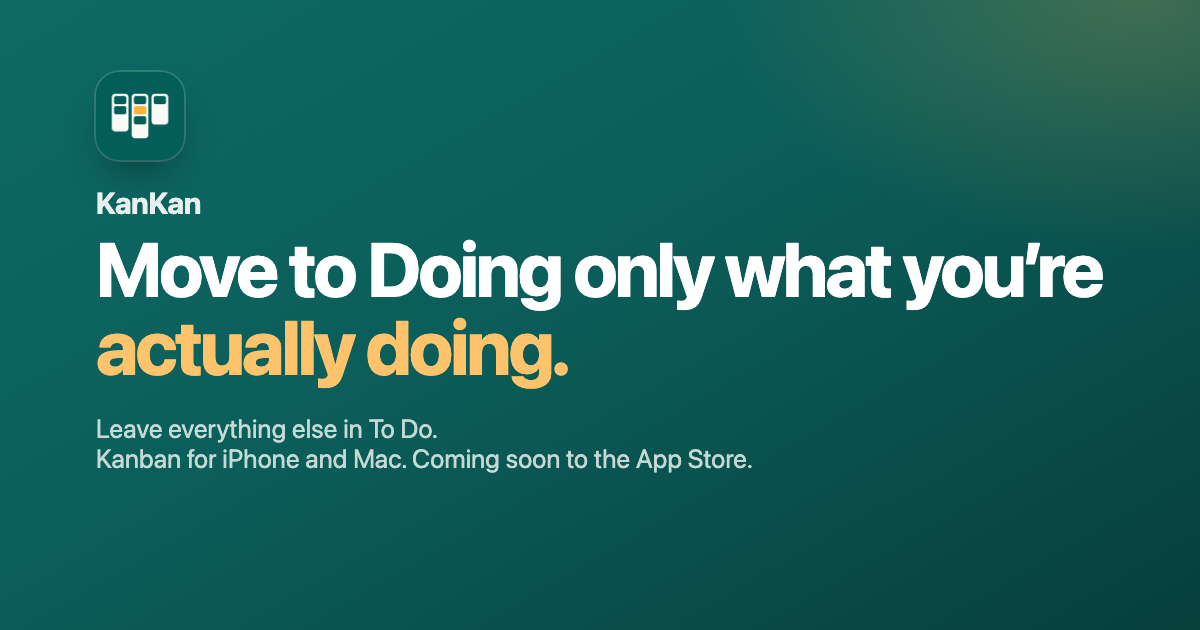
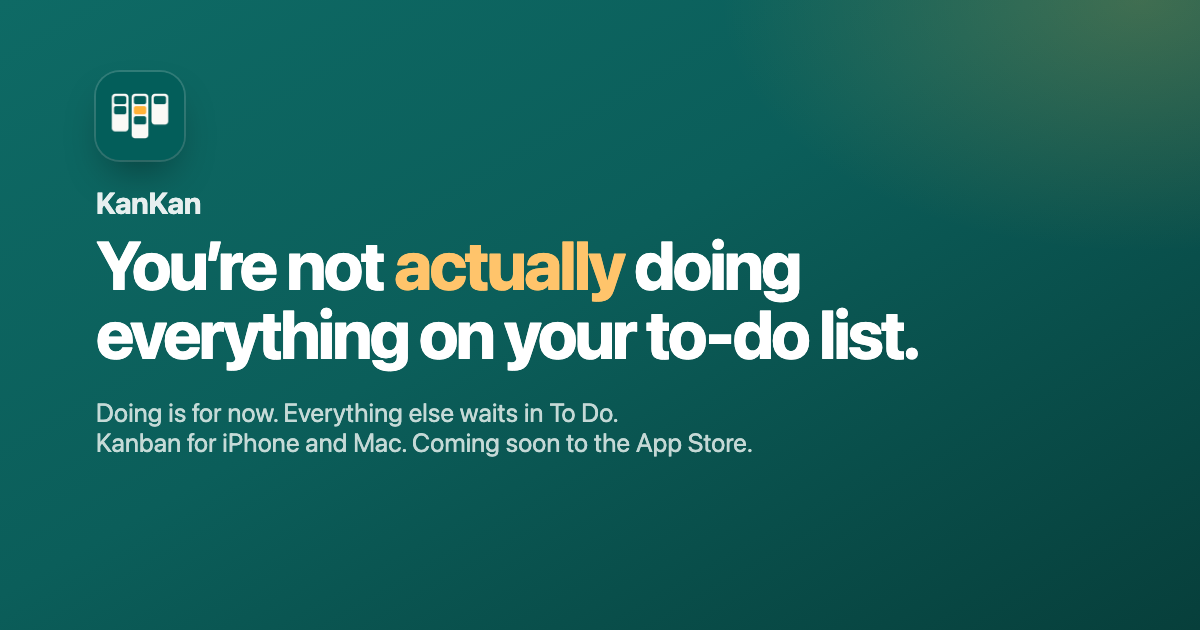
New headline: "You're not actually doing everything on your to-do list."
Subline "Doing is for now. Everything else waits in To Do."; meta, Open Graph
and Twitter descriptions and image alt updated; og-image regenerated (icon and
text only); hero h1 size reduced for the longer line.

Changed region(s): [[0.0617, 0.3619, 0.925, 0.754]]

diff --git a/index.html b/index.html
@@ -7,7 +7,7 @@
 <meta http-equiv="Content-Security-Policy" content="default-src 'none'; script-src 'self'; style-src 'self'; img-src 'self'; media-src 'self'; base-uri 'none'; form-action 'none'">
 <meta name="referrer" content="no-referrer">
 <title>KanKan: Kanban for your life, on iPhone and Mac</title>
-<meta name="description" content="KanKan is a personal Kanban app for iPhone and Mac. Move to Doing only what you are actually doing, and leave everything else in To Do. Coming soon to the App Store.">
+<meta name="description" content="You&rsquo;re not actually doing everything on your to-do list. Doing is for now. KanKan is a personal Kanban app for iPhone and Mac, coming soon to the App Store.">
 <link rel="canonical" href="https://getkankan.com/">
 <link rel="icon" href="favicon-32.png" sizes="32x32" type="image/png">
 <link rel="apple-touch-icon" href="apple-touch-icon.png">
@@ -17,16 +17,16 @@
 <meta property="og:site_name" content="KanKan">
 <meta property="og:url" content="https://getkankan.com/">
 <meta property="og:title" content="KanKan: Kanban for your life">
-<meta property="og:description" content="Move to Doing only what you're actually doing. Leave everything else in To Do. A personal Kanban app for iPhone and Mac, coming soon to the App Store.">
+<meta property="og:description" content="You&rsquo;re not actually doing everything on your to-do list. Doing is for now. Everything else waits in To Do. A personal Kanban app for iPhone and Mac, coming soon to the App Store.">
 <meta property="og:image" content="https://getkankan.com/og-image.png">
 <meta property="og:image:width" content="1200">
 <meta property="og:image:height" content="630">
-<meta property="og:image:alt" content="The KanKan app icon and the words: Move to Doing only what you're actually doing.">
+<meta property="og:image:alt" content="The KanKan app icon and the words: You&rsquo;re not actually doing everything on your to-do list.">
 <meta name="twitter:card" content="summary_large_image">
 <meta name="twitter:title" content="KanKan: Kanban for your life">
-<meta name="twitter:description" content="Move to Doing only what you're actually doing. Leave everything else in To Do. For iPhone and Mac.">
+<meta name="twitter:description" content="You&rsquo;re not actually doing everything on your to-do list. Doing is for now. A personal Kanban app for iPhone and Mac.">
 <meta name="twitter:image" content="https://getkankan.com/og-image.png">
-<meta name="twitter:image:alt" content="The KanKan app icon and the words: Move to Doing only what you're actually doing.">
+<meta name="twitter:image:alt" content="The KanKan app icon and the words: You&rsquo;re not actually doing everything on your to-do list.">
 <link rel="stylesheet" href="style.css">
 <script src="js/video.js" defer></script>
 </head>
@@ -40,8 +40,8 @@
 <div class="inner hero-grid">
 <div class="hero-copy">
 <p class="eyebrow">Personal Kanban for iPhone and Mac</p>
-<h1 id="hero-title">Move to Doing only what you&rsquo;re <span class="brandword">actually doing.</span></h1>
-<p class="subline">Leave everything else in To Do.</p>
+<h1 id="hero-title">You&rsquo;re not <span class="brandword">actually</span> doing everything on your to-do list.</h1>
+<p class="subline">Doing is for now. Everything else waits in To Do.</p>
 <p class="lead">KanKan is a personal Kanban app for iPhone and Mac. Your Doing column stays short, so you always know what you are working on now. And each card&rsquo;s activity log shows what you did last.</p>
 <div class="cta-row">
 <p class="soon"><span class="dot" aria-hidden="true"></span>Coming soon to the App Store</p>

diff --git a/style.css b/style.css
@@ -116,7 +116,7 @@ summary{cursor:pointer;color:var(--link)}
   background:radial-gradient(42rem 28rem at 78% 30%,rgba(11,94,90,.16),transparent 70%),radial-gradient(26rem 18rem at 92% 75%,rgba(255,176,58,.16),transparent 70%),radial-gradient(30rem 20rem at 8% 10%,rgba(11,94,90,.06),transparent 70%)}
 @media (prefers-color-scheme:dark){.hero::before{background:radial-gradient(42rem 28rem at 78% 30%,rgba(63,183,174,.2),transparent 70%),radial-gradient(26rem 18rem at 92% 75%,rgba(255,176,58,.1),transparent 70%),radial-gradient(30rem 20rem at 8% 10%,rgba(63,183,174,.07),transparent 70%)}}
 .hero-grid{display:grid;grid-template-columns:minmax(0,1.15fr) minmax(0,.85fr);gap:clamp(2rem,5vw,4rem);align-items:center}
-.hero h1{font-size:clamp(2.5rem,5.4vw,4.3rem);line-height:1.04;letter-spacing:-.042em;font-weight:750;margin:0 0 1rem;max-width:15ch}
+.hero h1{font-size:clamp(2.2rem,4.7vw,3.75rem);line-height:1.05;letter-spacing:-.04em;font-weight:750;margin:0 0 1rem;max-width:16ch}
 .subline{font-size:clamp(1.35rem,2.4vw,1.75rem);line-height:1.25;letter-spacing:-.02em;font-weight:620;color:var(--fg);margin:0 0 1.4rem;opacity:.72}
 .brandword{color:var(--brand);background:linear-gradient(100deg,#0b5e5a 10%,#13857e 90%);-webkit-background-clip:text;background-clip:text;-webkit-text-fill-color:transparent}
 @media (prefers-color-scheme:dark){.brandword{background:linear-gradient(100deg,#6fd3c8 10%,#a6e6dd 90%);-webkit-background-clip:text;background-clip:text}}
@@ -230,7 +230,7 @@ html:not(.js) .screen video{display:none}
 /* Responsive */
 @media (max-width:60rem){
   .hero-grid{grid-template-columns:1fr}
-  .hero h1{max-width:16ch}
+  .hero h1{max-width:17ch}
   .device{margin-top:1rem}
   .feature-grid{grid-template-columns:repeat(2,minmax(0,1fr))}
   .band{grid-template-columns:1fr}
